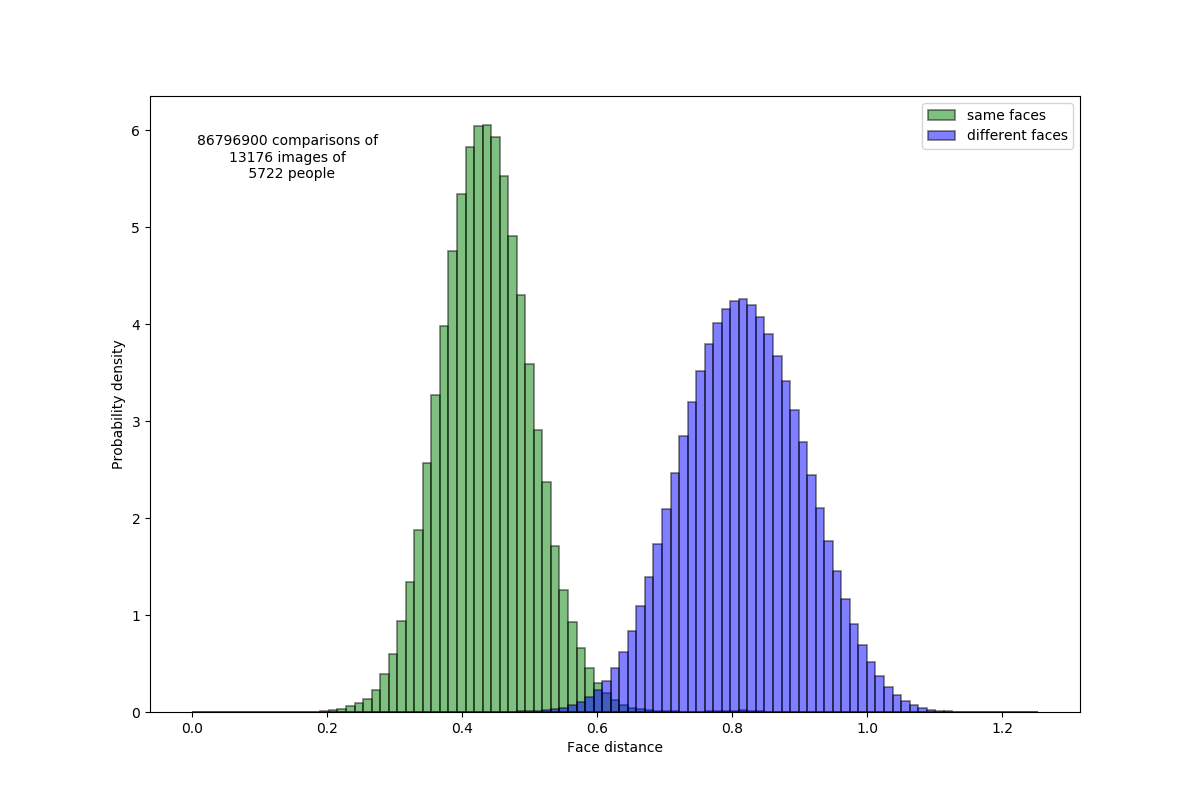
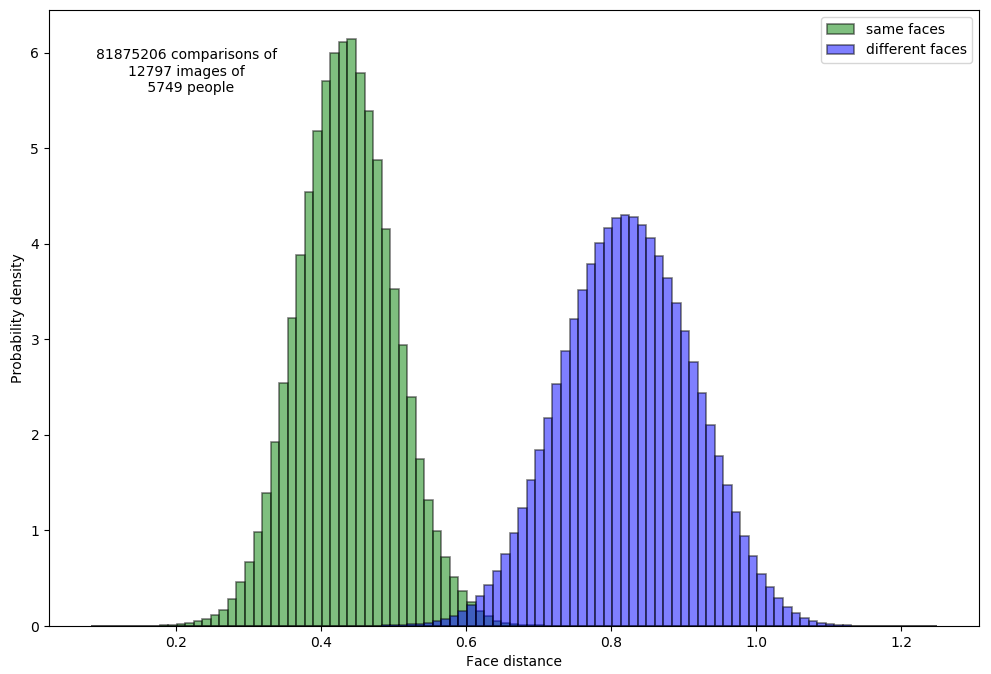
updated face recognition investigation page

diff --git a/css/stylesheet-default.scss b/css/stylesheet-default.scss
@@ -33,3 +33,21 @@ body {
   margin-bottom: 0px !important;
   padding-bottom: 0px !important;
 }
+
+//For the table on the face recognition page
+table {
+  font-family: arial, sans-serif;
+  border-collapse: collapse;
+  margin: 10px auto;
+  //width: 100%;
+}
+
+td, th {
+  border: 1px solid #dddddd;
+  text-align: right;
+  padding: 8px;
+}
+
+tr:nth-child(even) {
+  background-color: #dddddd;
+}

diff --git a/projects/project-5-face_recognition.md b/projects/project-5-face_recognition.md
@@ -14,9 +14,136 @@ labels:
 summary: I investigated the distances returned by face_recogntion for the same and for different faces, to inform the optimal choice of cut-off.
 ---
 
+<a href="https://pypi.org/project/face_recognition/">face_recognition</a> is a Python package containing pre-trained deep neural networks for that can be used to recognise and compare faces (provide a score reflecting their similarity). It uses a convolutional neural network to convert an image of a face to a set of 128 'encodings': numbers that are similar for different images of the same face, but different for images of different faces. The Euclidean distance between two sets of encodings can be interpreted as a facial 'distance': a measure of how different the faces are. Face recognition works by comparing these face distances with a cutoff: below the cutoff, the faces are taken as being the same, and above, they are taken as being different. By varying the cutoff you can vary the precision and recall - with a lower cutoff, you are less likely to identify pairs of images as being of the same face, but you can have higher confidence where you do so. Conversely, with a higher cutoff, you are more likely to identify pairs of images as being of the same face, but you can have less confidence where you do so. You can read more about this at <a href="https://medium.com/@ageitgey/machine-learning-is-fun-part-4-modern-face-recognition-with-deep-learning-c3cffc121d78">this blog post by the author of the package</a>.
+
+<a href="http://vis-www.cs.umass.edu/lfw/">Labeled Faces in the Wild</a> is a dataset of images of people, structured by the person shown in the image. I compared the 81,875,206 pairs in 12,797 images (of 5,749 people) from this dataset, keeping track of whether they distance, and whether the images were of the same, or different, faces. The resulting distribution of face distances, for pairs of images of the same, and different, faces, is shown below:
+
 <p style="text-align:center;"><img src="/images/face_rec_investigation.png" alt="graph" style="max-width: 100%;"></p>
 
-<a href="https://pypi.org/project/face_recognition/">face_recognition</a> is a Python package that can be used to recognise faces in the image. One of its features is...
+By collecting the face distances for all those combinations, comparing them with various cutoffs, and summing the correct and incorrect classifcations at each of those cutoffs, I generated the following table of precision and recall at various face distance cutoffs:
+
+<table>
+  <tr>
+    <th>cutoff</th>
+    <th>precision</th>
+    <th>recall</th>
+  </tr>
+  <tr>
+    <td>0.00</td>
+    <td>0.00</td>
+    <td>0.00</td>
+  </tr>
+  <tr>
+    <td>0.30</td>
+    <td>1.00</td>
+    <td>0.02</td>
+  </tr>
+  <tr>
+    <td>0.40</td>
+    <td>1.00</td>
+    <td>0.29</td>
+  </tr>
+  <tr>
+    <td>0.45</td>
+    <td>0.98</td>
+    <td>0.59</td>
+  </tr>
+  <tr>
+    <td>0.50</td>
+    <td>0.91</td>
+    <td>0.84</td>
+  </tr>
+  <tr>
+    <td>0.55</td>
+    <td>0.70</td>
+    <td>0.96</td>
+  </tr>
+    <tr>
+    <td>0.60</td>
+    <td>0.34</td>
+    <td>0.99</td>
+  </tr>
+  <tr>
+    <td>0.90</td>
+    <td>0.00</td>
+    <td>1.00</td>
+  </tr>
+  <tr>
+    <td>1.00</td>
+    <td>0.00</td>
+    <td>1.00</td>
+  </tr>
+    <tr>
+    <td>1.50</td>
+    <td>0.00</td>
+    <td>1.00</td>
+  </tr>
+</table>
+
+
+While carrying out these comparisons, we can also investigate which people look the most different in different images. The top 10 pairs of images of the same people, but with the highest face distances, are shown below. The face distances are in the table below the images.
+
+<p style="text-align:center;"><img src="/images/different_looking_same_people.jpg" alt="different_looking_faces" style="max-width: 30%;"></p>
+
+<table>
+  <tr>
+    <th></th>
+    <th>Name</th>
+    <th>Face Distance</th>
+  </tr>
+  <tr>
+    <td>1</td>
+    <td>Nicole Kidman</td>
+    <td>0.90</td>
+  </tr>
+  <tr>
+    <td>2</td>
+    <td>Michael Schumacher</td>
+    <td>0.89</td>
+  </tr>
+  <tr>
+    <td>2</td>
+    <td>Bill Simon</td>
+    <td>0.81</td>
+  </tr>
+  <tr>
+    <td>3</td>
+    <td>Recep Tayyip Erdogan</td>
+    <td>0.78</td>
+  </tr>
+  <tr>
+    <td>4</td>
+    <td>Debra Messing</td>
+    <td>0.78</td>
+  </tr>
+  <tr>
+    <td>6</td>
+    <td>Cristina Fernandez</td>
+    <td>0.76</td>
+  </tr>
+    <tr>
+    <td>7</td>
+    <td>Jennifer Lopez</td>
+    <td>0.74</td>
+  </tr>
+  <tr>
+    <td>8</td>
+    <td>Janica Kostelic</td>
+    <td>0.73</td>
+  </tr>
+  <tr>
+    <td>9</td>
+    <td>Lance Armstrong</td>
+    <td>0.72</td>
+  </tr>
+    <tr>
+    <td>10</td>
+    <td>Anna Kournikova</td>
+    <td>0.71</td>
+  </tr>
+</table>
+
+Reasons for these high face distance scores seem to include things obscuring the faces, and photos not taken straight-on.
 
 The code is available at [GitHub](https://github.com/jackgrimes/face_distance_investigation).
 
